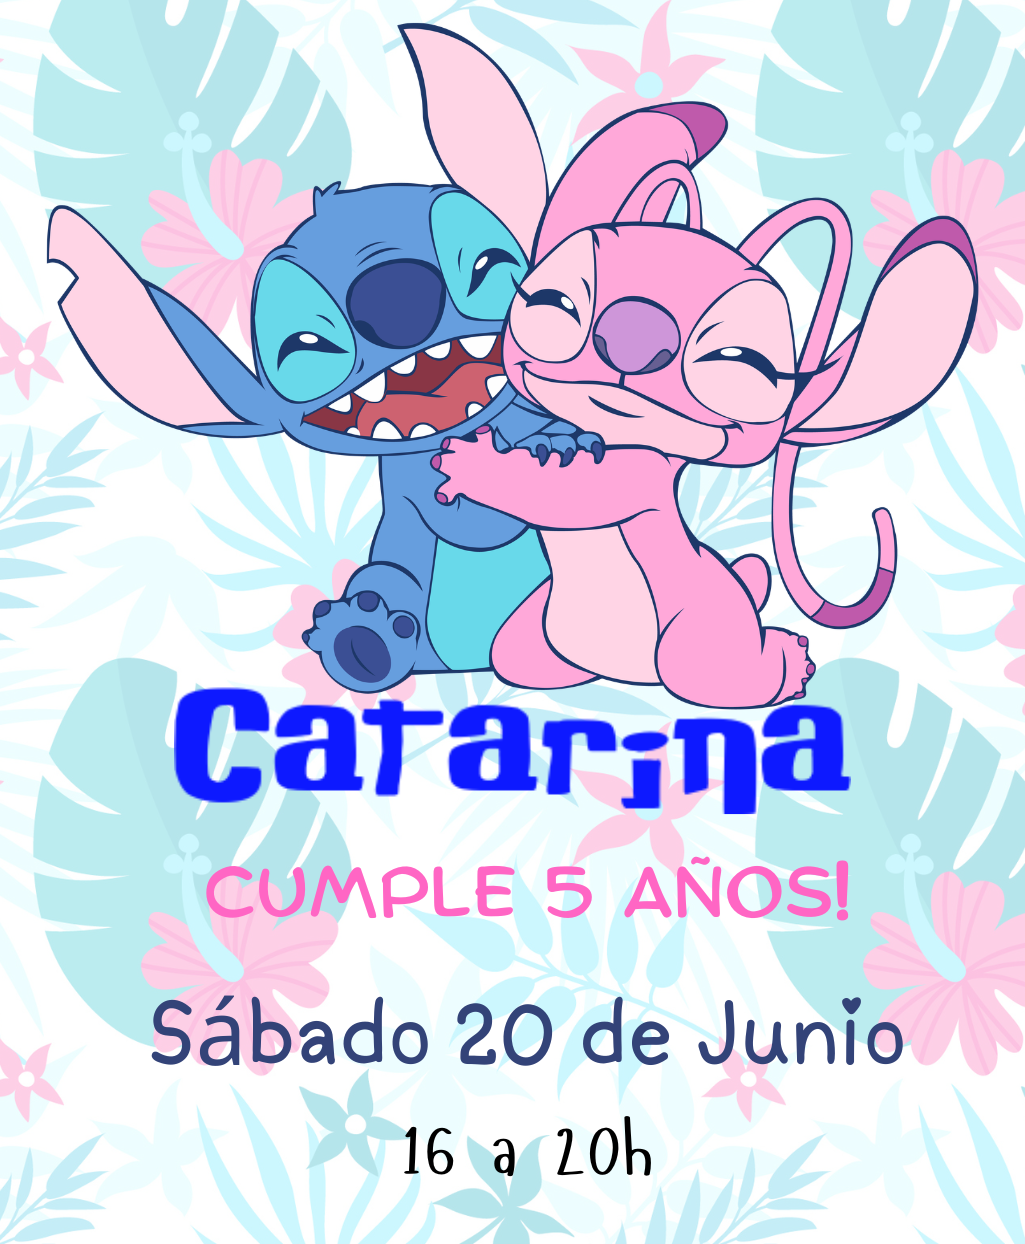
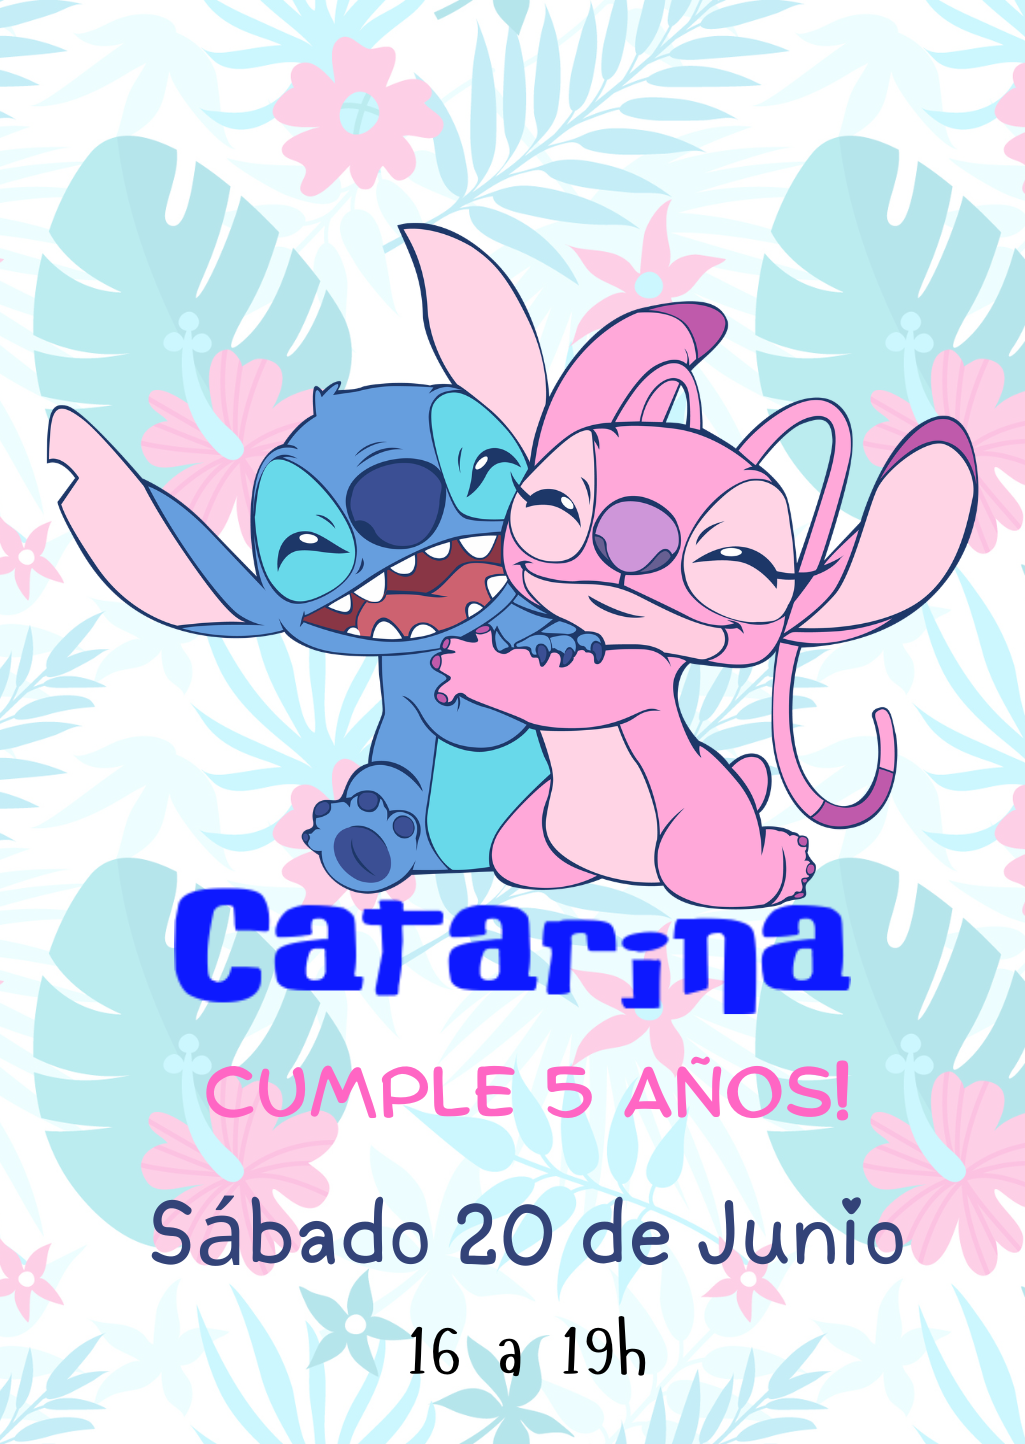
Agrego calendario, agenda, mapa

diff --git a/index.html b/index.html
@@ -28,14 +28,13 @@
       <div class="countdown" id="countdown"></div>
       <div class="map-container">
           <a 
-          href="https://maps.app.goo.gl/tw2jWcmvpcvthb1KA" 
+          href="https://maps.app.goo.gl/QtsQQmDsZoxVrcDq9"
           target="_blank" 
           class="map-link">
           <h2>📍Salón CoosPu</h2>
         </a>
       </div>          
       <section class="confirmar-container">
-      <h2 class="confirmar-title">¿Confirmás tu asistencia?</h2>
         <form id="confirmForm">
           <select id="asistencia" required>
             <option value="">Seleccioná una opción</option>
@@ -44,13 +43,12 @@
           </select>
           <button type="submit">Confirmar</button>
         </form>
-
-        <!-- Mensaje de confirmación -->
-        <div id="mensajeConfirmacion" style="display: none; margin-top: 20px; text-align: center;">
-          <p>🎉 ¡Te espero para divertirnos!
-            <a href="https://drive.google.com/file/d/1xKnRV_d6SNOJz9KaFXIA4q2T_R2Nz5_H/view?usp=sharing" target="_blank">Descargá tu invitación</a>
-          </p>
-        </div>
+          <div id="mensajeConfirmacion" style="display: none; margin-top: 20px; text-align: center;"> <!-- Mensaje de confirmación -->
+            <p>🎉 ¡Te espero para divertirnos!
+              <a href="images/tarjeta_catarina.jpg" download>📥 Descargar invitación </a>
+              <a href="cumple_catarina.ics"> 📅 Agendar en mi calendario </a>
+            </p>
+          </div>
       </section>
     </div>
   </div>

diff --git a/script.js b/script.js
@@ -3,14 +3,17 @@ let invitadoActual = "";
 const invitados = {
   "catarinap": "Catarina",
   "valentinop": "Vale",
-  "valentinoc": "Vale",
-  "valentinos": "Vale",
   "lucap": "Luca",
   "Romanellap": "Roma",
   "Renattap":"Tutti",
   "Irupeb":"Irupé",
-
-};
+  "Orlandop":"Papá",
+  "hortensiaa":"Abu",
+  "Nestorp":"Abuelo Nestor",
+  "Carlosb":"Abuelo Carlos",
+  "Norapony":"Tios abuelos",
+  "gabrielad":"Gaby",
+  };
 
 function checkCode() {
 
